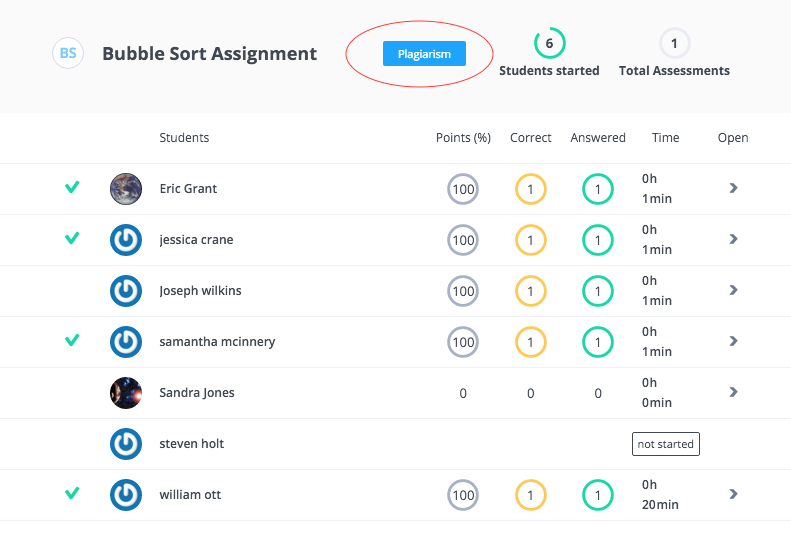
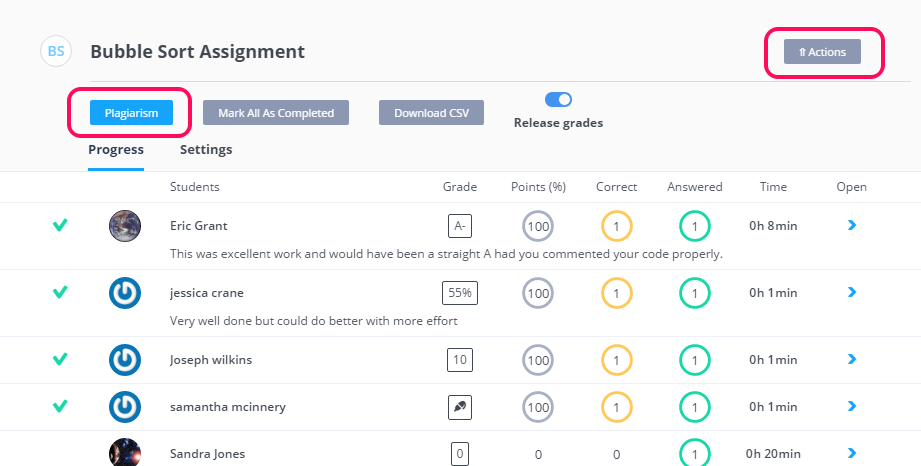
update plag screenshots

diff --git a/source/docs/teacher/plag/plag-start.html.md b/source/docs/teacher/plag/plag-start.html.md
@@ -7,6 +7,10 @@ full_width: true
 ## Classes
 In order to use this feature you need to set up a class. If you are not using Codio as your main IDE and want to use only the plagiarism detection feature then you should still follow these instructions and ask your students to upload their code into the project using Git or by uploading files manually.
 
+## Access Plagiarism features
+
+When in your class, select your unit and then click the Actions button (button to the top right of the screen) to show the available actions that includes Plagiarism 
+
 <img alt="authtoken" src="/img/docs/guides/plag-button.png" class="simple"/>
 
 ## Run

diff --git a/source/docs/teacher/classes/plag.html.md b/source/docs/teacher/classes/plag.html.md
@@ -6,3 +6,5 @@ full_width: true
 ---
 
 To run the [plagiarism checker](/docs/teacher/plag/) you need to first select the Unit within the class and then press press the Actions button next to the unit name.
+
+<img alt="authtoken" src="/img/docs/guides/plag-button.png" class="simple"/>
